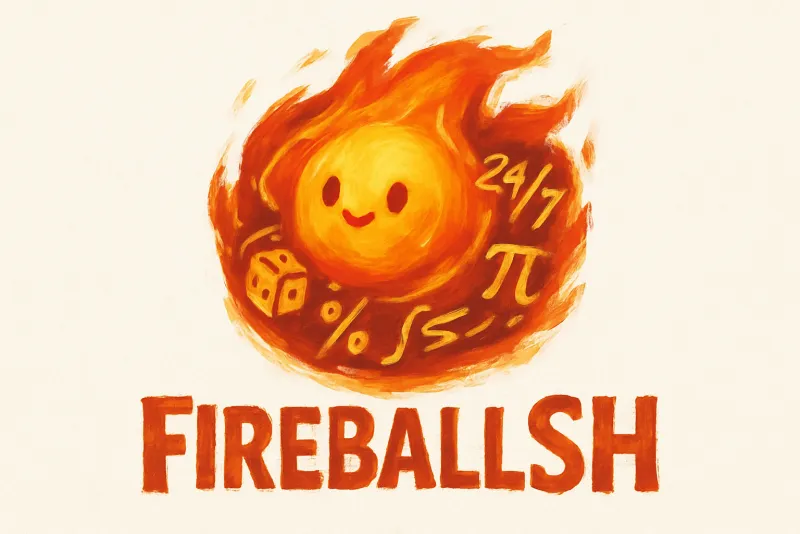
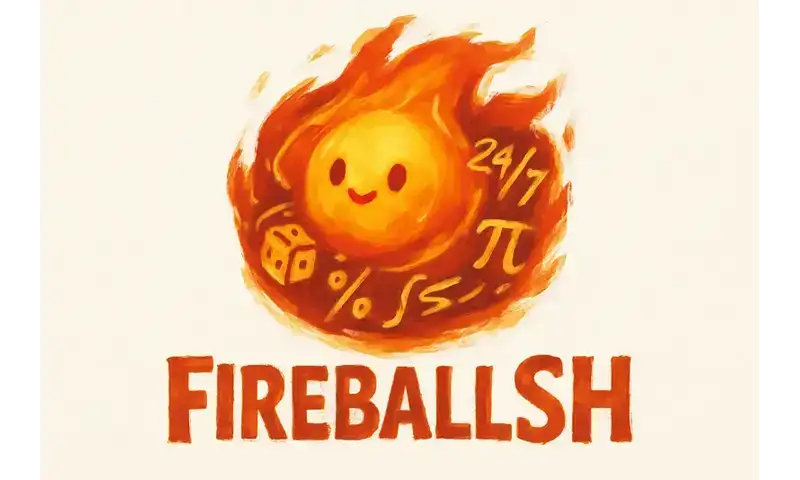
resizing

diff --git a/resize.py b/resize.py
@@ -1,0 +1,24 @@
+from PIL import Image, ImageOps
+
+files = [
+    'public/avalanche.webp',
+    'public/lila.webp',
+    'public/storming_tune.webp',
+    'public/gorilla.webp',
+    'public/fireballsh.webp',
+    'public/experienceml.webp',
+    'public/figurify.webp',
+    'public/headpace.webp',
+    'public/snowblog.webp'
+]
+
+for path in files:
+    img = Image.open(path).convert("RGBA")
+    img = ImageOps.pad(
+        img,
+        (800, 480),
+        method=Image.Resampling.LANCZOS,
+        color=(0, 0, 0, 0)  # transparent
+    )
+    img.save(path, 'WEBP', quality=60)
+    print(path, '->', img.size)
